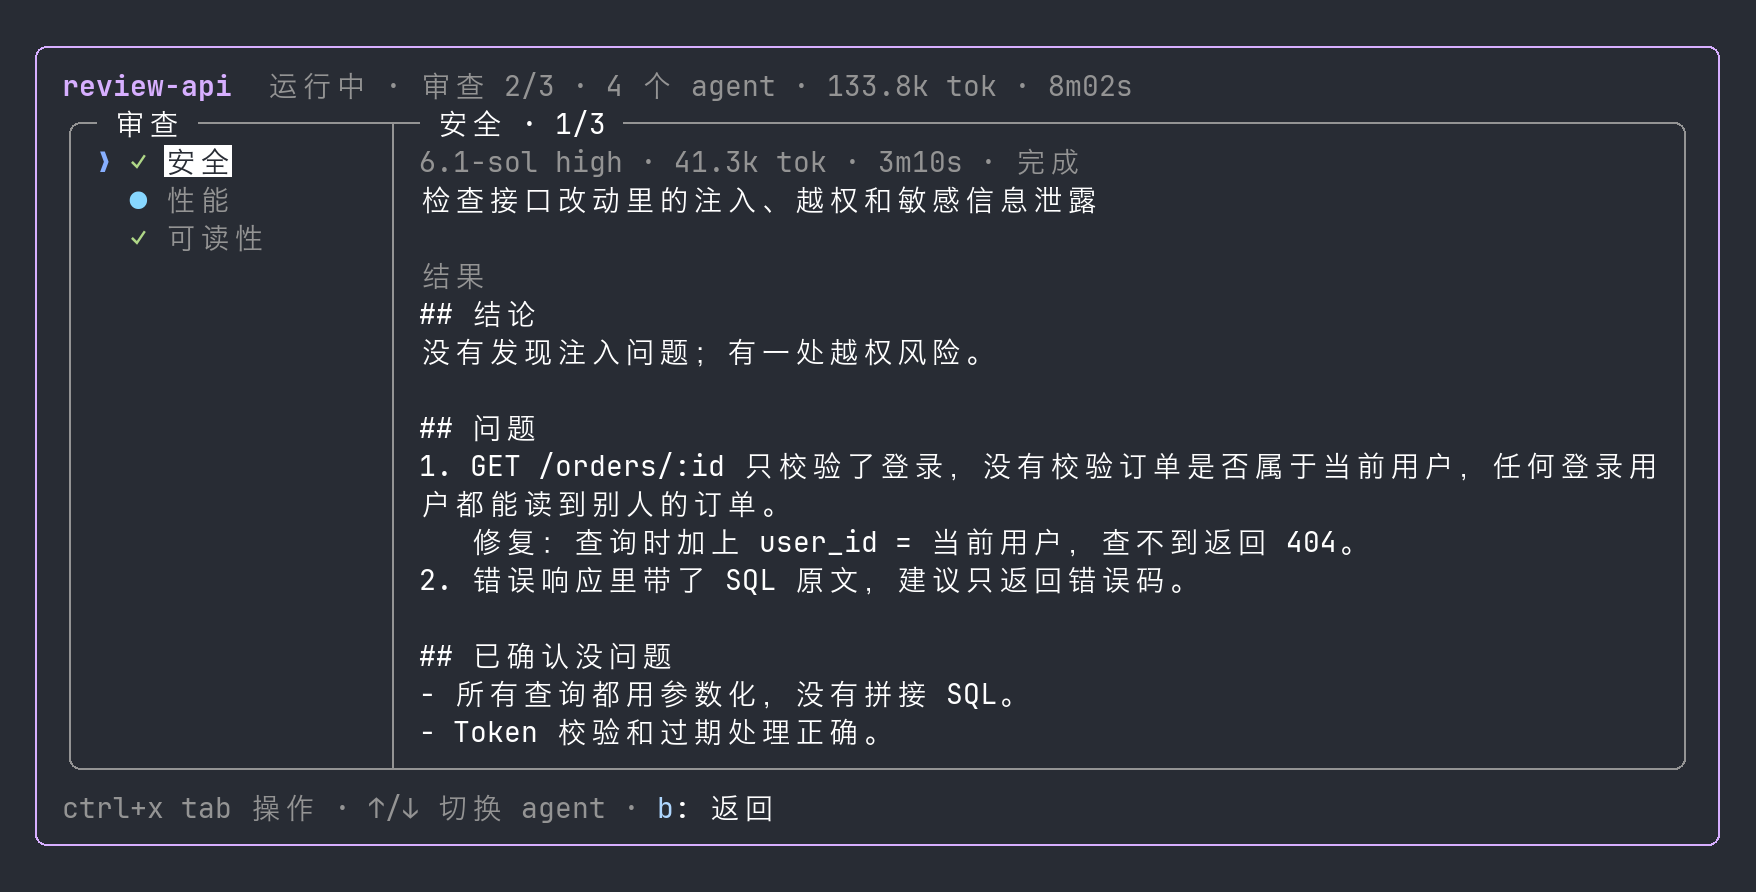
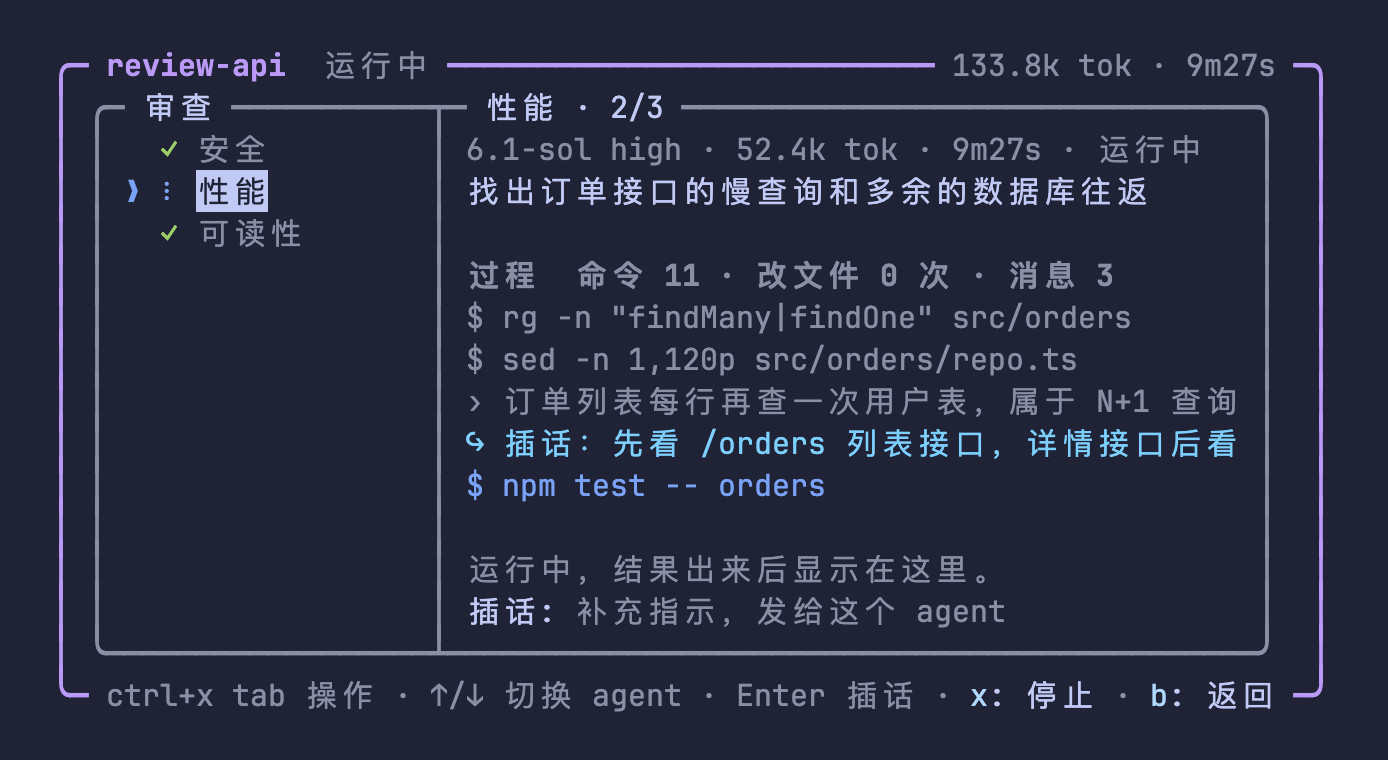
docs: 按新面板重截列表、flow 与 agent 详情截图

Changed region(s): [[0.031, 0.0605, 0.9604, 0.9382]]

diff --git a/README.en.md b/README.en.md
@@ -59,7 +59,7 @@ With several tasks, each gets one row: flows stay above single agents, newer tas
 
 Inside an agent, the right column shows its brief, its progress (counts of commands, file edits and messages, plus the latest steps) and its result, and the left column switches to other agents in the same phase. A running flow task has a steer field below: press `Enter` on the current agent to reach it, type an instruction and press `Enter`; the executor sends it to that task with Codex's turn/steer within a second, and progress shows whether it was delivered or rejected. Letters typed in the field never trigger `x`, `b` or `q`. Tasks in acceptance checks, finished tasks and single agents have no steer field: during checks Codex has already finished, and single agents run under `run.sh`, which cannot take steering.
 
-![Agent detail: brief, progress, result and steer field](docs/images/panel-agent.png)
+![Agent detail: brief, progress and steer field](docs/images/panel-agent.png)
 
 | Key | Action |
 | --- | --- |

diff --git a/README.md b/README.md
@@ -59,7 +59,7 @@ mod 只负责显示和提醒；mod 未加载时，任务照常运行。运行记
 
 进入 agent 后，右栏显示任务说明、过程（命令、改文件和消息的次数，以及最近几步）和结果，左栏可切换到同阶段的其他 agent。运行中的 flow 任务下面有插话框：在当前 agent 上按 `Enter` 进入，输入补充指示后按 `Enter`，执行器在 1 秒内用 Codex 的 turn/steer 发给这个任务，送达或被拒都会写进过程。插话框里输入的字母不会触发 `x`、`b`、`q`。验收中、已结束的任务和单个 agent 没有插话框：验收时 Codex 已经结束，单个 agent 由 `run.sh` 运行，收不到插话。
 
-![agent 详情：任务说明、过程、结果与插话框](docs/images/panel-agent.png)
+![agent 详情：任务说明、过程与插话框](docs/images/panel-agent.png)
 
 | 按键 | 作用 |
 | --- | --- |
